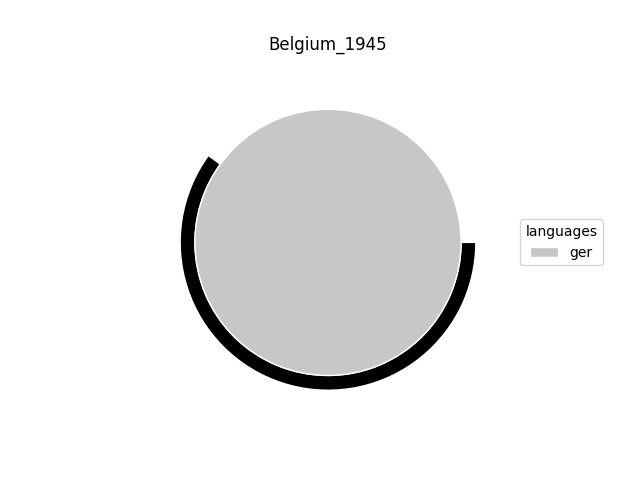
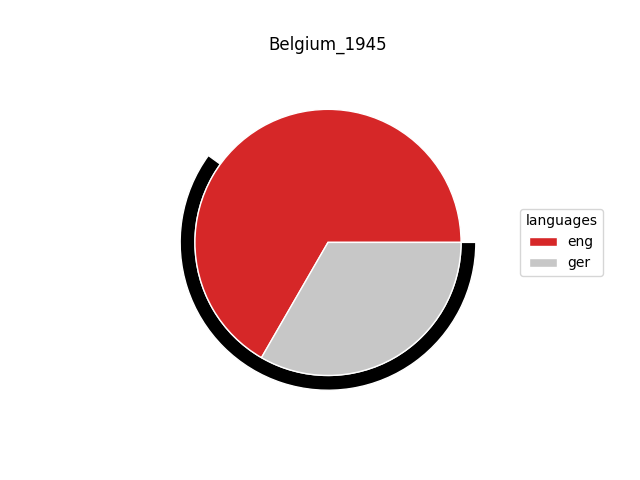
Belgium

Changed region(s): [[0.2812, 0.2188, 0.7188, 0.75], [0.8125, 0.4375, 0.9375, 0.5625]]

diff --git a/create_pie_charts.py b/create_pie_charts.py
@@ -36,13 +36,16 @@ for i, language in enumerate(languages):
 for plot_year in plot_years: 
 
     # Iterate through countries to plot the bar chart                
-    for country in countries:
+    for country in ['Belgium']: # countries
 
         # Select only non empty rows that are in the decade and for that country
         if not df[(df['map_year'] == int(plot_year)) &  (df['country'] == country)].empty:
 
             # All non-empty rows
             h = df[(df['map_year'] == int(plot_year)) &  (df['country'] == country)]
+            
+            # sort values by weights descending
+            h = h.sort_values(by = 'weights', ascending = 0)
             
             # if only weights, change to h.weights
             sum_weights = sum(h.weights)
@@ -75,7 +78,7 @@ for plot_year in plot_years:
             n[0][0].set_alpha(0.0)
 
             # Discard the most common language (= should be the major language)
-            h = h[h.weights != h_max]
+            h = h.iloc[1:, :]
 
             # if there are minor languages translations
             if not(h.empty):
